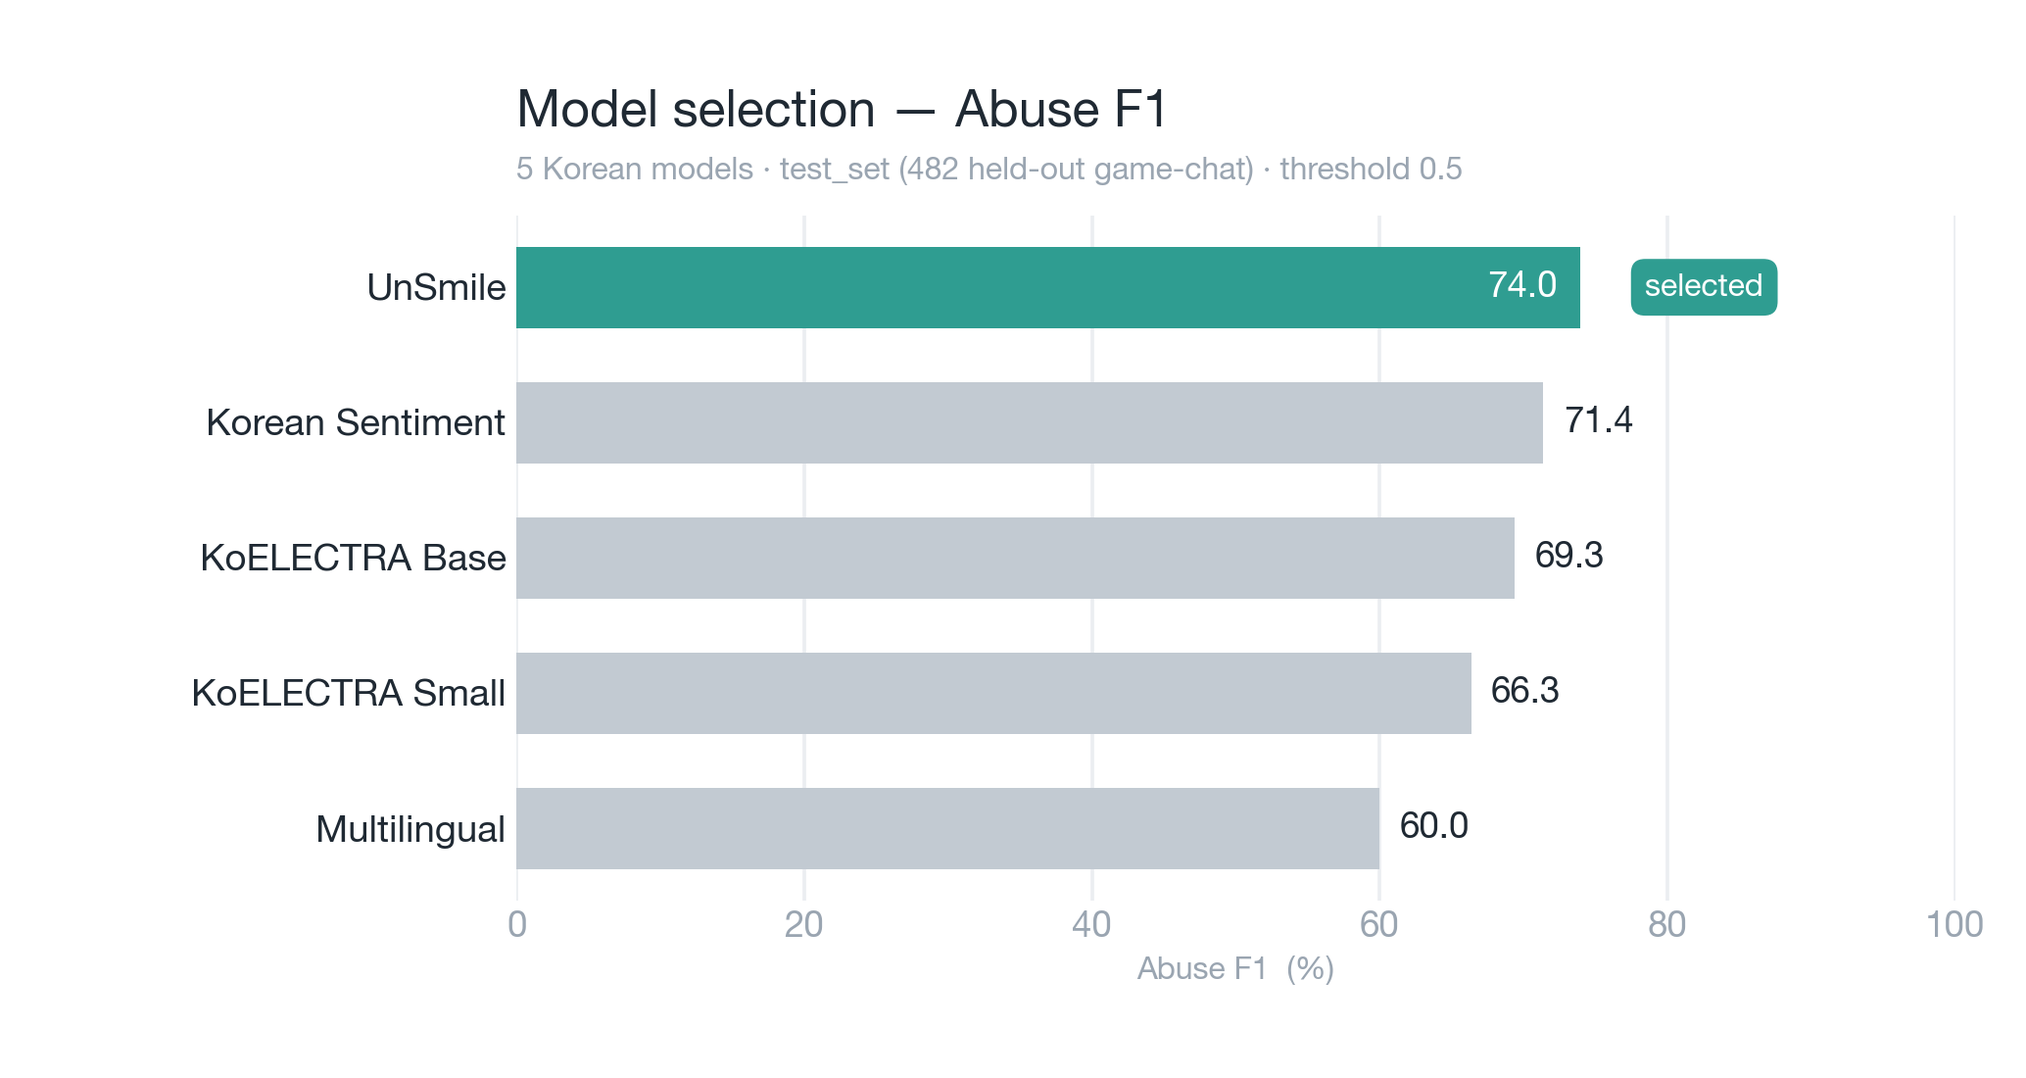
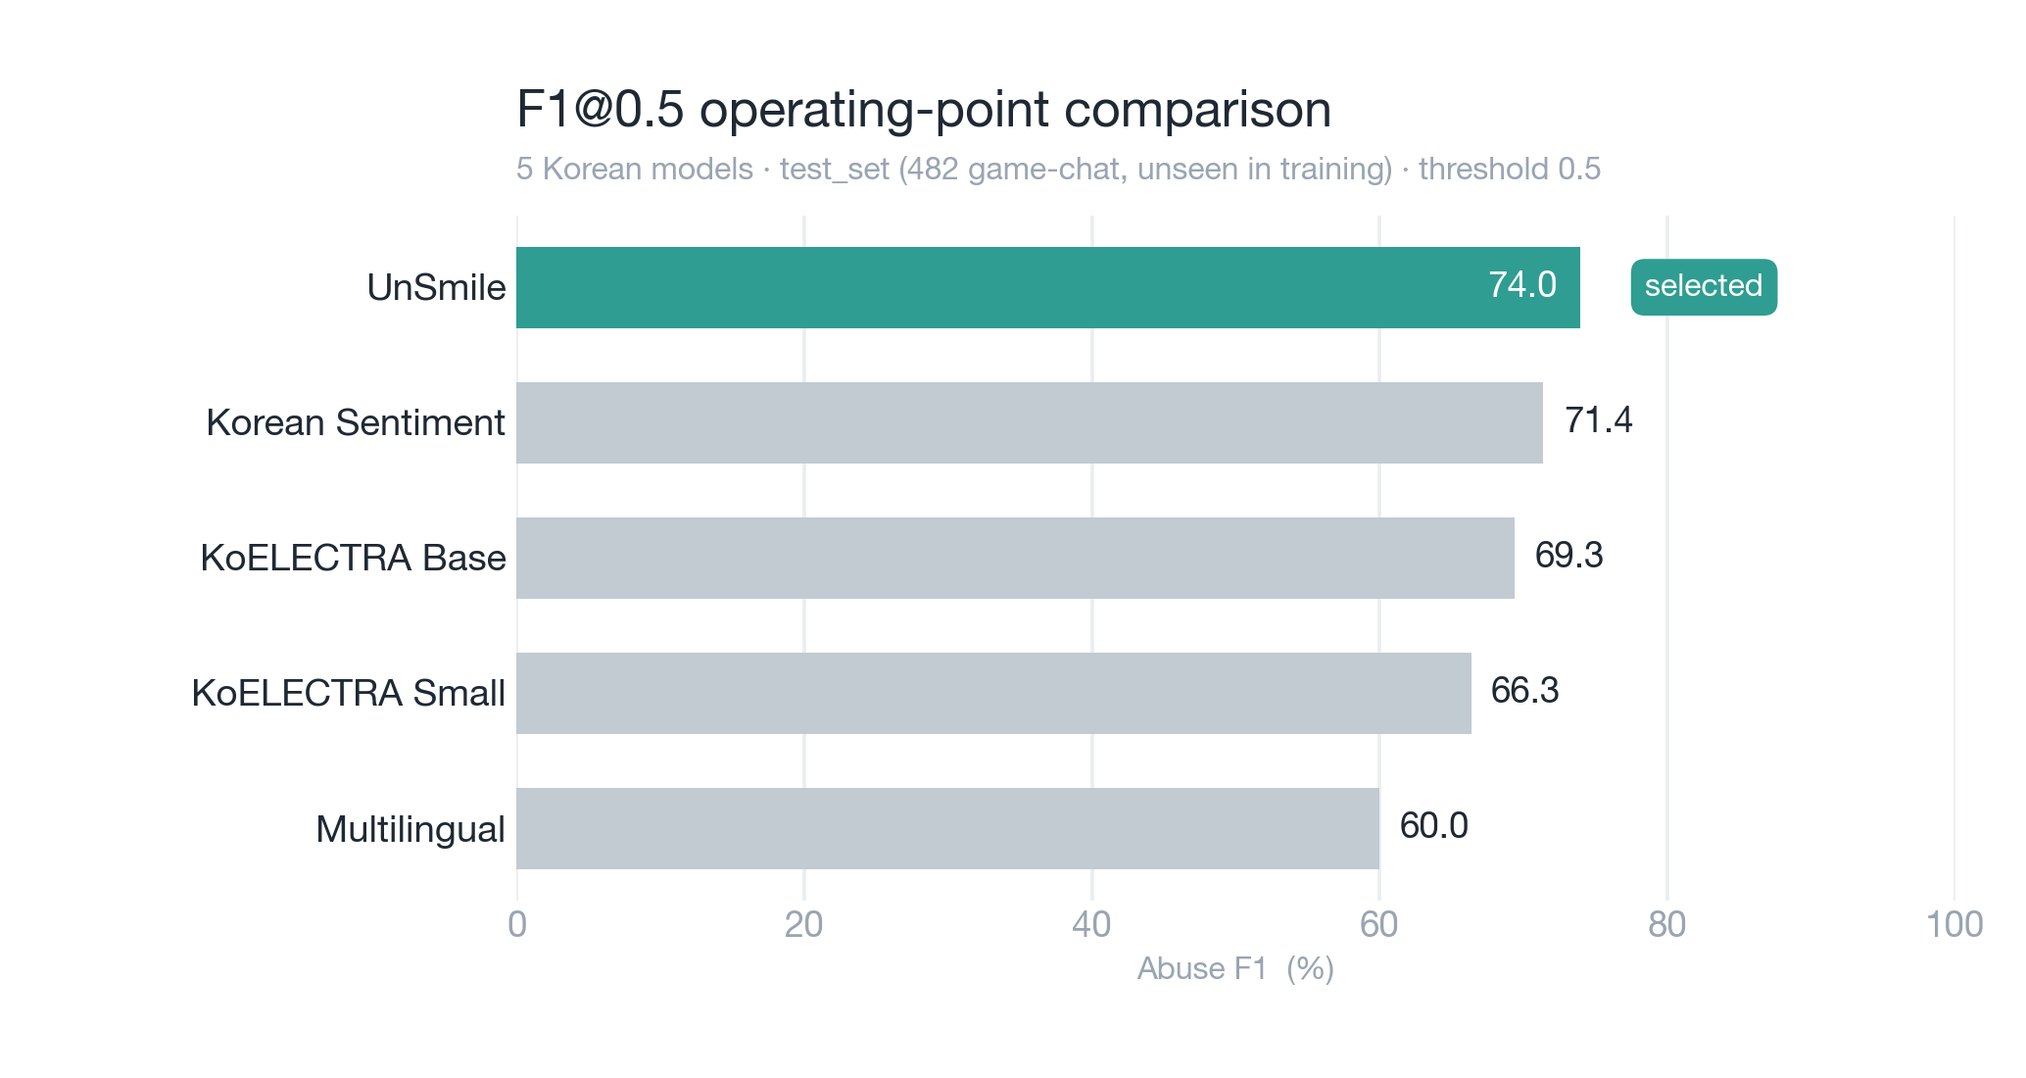
[AI] fix: 0·1단계 수집·모델선정 문서 정합성 보정

Changed region(s): [[0.2476, 0.0618, 0.7737, 0.1855]]

diff --git a/1_Model_Selection/benchmark_game_stt.py b/1_Model_Selection/benchmark_game_stt.py
@@ -1,7 +1,7 @@
 """
 게임 STT 데이터 기반 5개 모델 벤치마크 (Step 1 · 모델 선정)
 - test_set.tsv (482건, 학습에 안 쓴 평가셋) 사용
-- 5개 한국어 감정/혐오 분석 모델 비교 → Abuse F1 기준 선정 (모두 분류 헤드가 실제 로드되는 모델)
+- 5개 한국어 감정/혐오 분석 모델 비교 → AP 기준 선정, F1@0.5는 참고 운영점 (모두 분류 헤드가 실제 로드되는 모델)
 - 산출물: results/ (benchmark_autogen.md 원시요약, benchmark_results.csv/.json, 그래프 en/ko 4종)
   ※ 큐레이션 문서(그래프 설명 등)는 results/MODEL_BENCHMARK.md (손으로 유지, 자동 덮어쓰기 안 함)
 
@@ -45,6 +45,16 @@ MODELS_TO_TEST = [
     ("Korean Sentiment", "matthewburke/korean_sentiment"),
     ("UnSmile", "smilegate-ai/kor_unsmile"),
 ]
+
+
+def load_threshold_free_scores():
+    """AP 기준 선정 결과가 있으면 읽고, 없으면 F1@0.5 fallback을 허용한다."""
+    path = os.path.join(RESULTS_DIR, "threshold_free_selection.csv")
+    if not os.path.exists(path):
+        return {}
+    df = pd.read_csv(path, encoding="utf-8-sig")
+    return {str(row["model"]): float(row["AP"]) for _, row in df.iterrows()}
+
 
 # 모델별 부정 라벨 매핑
 MODEL_NEGATIVE_LABELS = {
@@ -290,7 +300,20 @@ def save_results(results, sentences_count):
     print(f"💾 저장: {RESULTS_DIR}/benchmark_results.json")
     
     # Markdown README
-    best = max(successful, key=lambda x: x["abuse_f1"])
+    ap_scores = load_threshold_free_scores()
+    has_ap = bool(ap_scores)
+    criterion_label = "AP(임계값 무관)" if has_ap else "F1@0.5"
+    best = max(successful, key=lambda x: (ap_scores.get(x["model_name"], -1.0), x["abuse_f1"]) if has_ap else x["abuse_f1"])
+    ap_metric_line = (
+        f"- **AP**: {ap_scores[best['model_name']]:.2f}% (임계값 무관 선정 지표)"
+        if best["model_name"] in ap_scores
+        else "- **AP**: threshold_free_selection.csv 미생성, F1@0.5 기준으로 임시 선정"
+    )
+    sorted_results = sorted(
+        successful,
+        key=lambda x: (ap_scores.get(x["model_name"], -1.0), x["abuse_f1"]) if has_ap else x["abuse_f1"],
+        reverse=True,
+    )
     
     md_content = f"""# 🎮 5개 모델 벤치마크 결과 (자동 생성)
 
@@ -306,25 +329,27 @@ def save_results(results, sentences_count):
 
 ## 🏆 결과 요약
 
-| 모델 | Abuse Recall | Abuse F1 | 선정 |
-|------|:------------:|:--------:|:----:|
+| 모델 | AP | Abuse Recall | Abuse F1@0.5 | 선정 |
+|------|:--:|:------------:|:------------:|:----:|
 """
     
-    for r in sorted(successful, key=lambda x: -x["abuse_f1"]):
+    for r in sorted_results:
         selected = "✅" if r["model_name"] == best["model_name"] else ""
-        md_content += f"| {r['model_name']} | **{r['abuse_recall']*100:.2f}%** | {r['abuse_f1']*100:.2f}% | {selected} |\n"
+        ap_text = f"{ap_scores[r['model_name']]:.2f}%" if r["model_name"] in ap_scores else "-"
+        md_content += f"| {r['model_name']} | {ap_text} | **{r['abuse_recall']*100:.2f}%** | {r['abuse_f1']*100:.2f}% | {selected} |\n"
     
     md_content += f"""
 ---
 
 ## 🎯 {best['model_name']} 선정 이유
 
-### 1. 최고 성능 (선정 기준: Abuse F1)
-- **Abuse F1**: {best['abuse_f1']*100:.2f}% (모델 중 1위)
+### 1. 최고 성능 (선정 기준: {criterion_label}, F1@0.5는 참고)
+{ap_metric_line}
+- **Abuse F1@0.5**: {best['abuse_f1']*100:.2f}%
 - **Abuse Precision**: {best['abuse_precision']*100:.2f}% · **Recall**: {best['abuse_recall']*100:.2f}%
 - **Accuracy**: {best['accuracy']*100:.2f}% · **Clean F1**: {best['clean_f1']*100:.2f}%
 
-> ⚠ 선정은 Recall이 아니라 **임계값 무관 AP 기준**(상세: threshold_free_selection.py). 단순 Recall 최대 모델은 거의 모든 문장을 부정어로 분류해(Precision↓, 오탐↑) 실사용 불가. 아래 F1@0.5는 참고 운영점.
+> ⚠ 선정은 Recall이 아니라 **{criterion_label} 기준**(상세: threshold_free_selection.py). 단순 Recall 최대 모델은 거의 모든 문장을 부정어로 분류해(Precision↓, 오탐↑) 실사용 불가. 아래 F1@0.5는 참고 운영점.
 
 ### 2. 한국어 혐오 발언 전용
 - Smilegate AI의 **한국어 혐오 발언 탐지** 전용 모델, 댓글/채팅 학습 → 게임 대화에 적합
@@ -402,8 +427,13 @@ if __name__ == "__main__":
     # 베스트 모델
     successful = [r for r in all_results if not r.get("error")]
     if successful:
-        best = max(successful, key=lambda x: x["abuse_f1"])
-        print(f"\n🏆 Best: {best['model_name']} (Abuse F1: {best['abuse_f1']*100:.2f}%)")
+        ap_scores = load_threshold_free_scores()
+        if ap_scores:
+            best = max(successful, key=lambda x: (ap_scores.get(x["model_name"], -1.0), x["abuse_f1"]))
+            print(f"\n🏆 Best: {best['model_name']} (AP: {ap_scores.get(best['model_name'], 0):.2f}%, F1@0.5: {best['abuse_f1']*100:.2f}%)")
+        else:
+            best = max(successful, key=lambda x: x["abuse_f1"])
+            print(f"\n🏆 Best: {best['model_name']} (Abuse F1@0.5: {best['abuse_f1']*100:.2f}%)")
     
     # 저장(CSV/JSON/MD) 후, 포트폴리오 차트는 plot_benchmark에서 CSV 기반 렌더(영어+한국어)
     save_results(all_results, len(sentences))

diff --git a/1_Model_Selection/plot_benchmark.py b/1_Model_Selection/plot_benchmark.py
@@ -4,7 +4,7 @@ plot_benchmark.py — 모델선정 벤치마크 '포트폴리오용' 차트 (pre
 results/benchmark_results.csv 를 읽어 차트를 렌더한다. 모델 추론(benchmark_game_stt.py)과
 분리돼 있어 **재추론 없이** 다시 그릴 수 있다. 영어(기본)·한국어 두 버전을 모두 생성한다.
 
-  best_model_selection.png / _ko.png — Abuse F1 랭킹(= 선정 결과)
+  best_model_selection.png / _ko.png — Abuse F1@0.5 운영점 비교
   6_model_comparison.png    / _ko.png — 유효 후보 3종의 Precision–Recall 트레이드오프(덤벨)
 
 디자인: 에디토리얼 좌측정렬 타이틀 · 뮤트 그레이 + 단일 틸 액센트 · 무테/무격자(옅은 격자만).
@@ -68,7 +68,7 @@ NOISE = set()
 # ── 문구(언어별) ───────────────────────────────────────────────────────────
 STRINGS = {
     "en": {
-        "sel_title": "Model selection — Abuse F1",
+        "sel_title": "F1@0.5 operating-point comparison",
         "sel_sub":   "5 Korean models · test_set (482 game-chat, unseen in training) · threshold 0.5",
         "sel_xlabel": "Abuse F1  (%)",
         "selected":  "selected",
@@ -81,7 +81,7 @@ STRINGS = {
         "recall":    "Recall",
     },
     "ko": {
-        "sel_title": "모델 선정 (Abuse F1 기준)",
+        "sel_title": "F1@0.5 운영점 비교",
         "sel_sub":   "한국어 모델 5종, 학습에 쓰지 않은 test_set 482(게임채팅), 임계값 0.5",
         "sel_xlabel": "Abuse F1  (%)",
         "selected":  "선정",

diff --git a/1_Model_Selection/plot_threshold_free_ko.py b/1_Model_Selection/plot_threshold_free_ko.py
@@ -44,7 +44,7 @@ for yi, (n, v) in enumerate(zip(names, vals)):
              fontsize=11.5, fontweight="bold" if n == "UnSmile" else "normal", zorder=4)
 axA.text(vals[-1] + 1.0, ypos[-1], "선정", va="center", ha="left", color=PRIMARY, fontsize=10.5, fontweight="bold")
 axA.set_yticks(ypos); axA.set_yticklabels([KO[n] for n in names], fontsize=11)
-axA.set_xlim(45, 100); axA.set_xlabel("AP · 평균정밀도 (%)", fontsize=10.5)
+axA.set_xlim(0, 100); axA.set_xlabel("AP · 평균정밀도 (%)", fontsize=10.5)
 for s in axA.spines.values(): s.set_visible(False)
 axA.tick_params(length=0); axA.xaxis.grid(True, color=GRID, lw=1.1, zorder=0); axA.set_axisbelow(True)
 axA.set_title("임계값과 무관한 선정 지표", loc="left", pad=30, fontsize=14.5, fontweight="bold", color=INK)

diff --git a/1_Model_Selection/README.md b/1_Model_Selection/README.md
@@ -13,11 +13,10 @@
 | `plot_benchmark.py` | 결과 CSV로 **포트폴리오용 차트**(영어/한국어) 렌더, 추론과 분리(재추론 불필요) |
 | `benchmark_game_stt.ipynb` | 노트북 버전(참고) |
 | `results/` | 산출물: `MODEL_BENCHMARK.md`(상세+그래프 설명)·`benchmark_results.csv`·그래프(en/ko) |
-| `MODEL_SELECTION.md` | 선정 근거 메모(기준·트러블슈팅 교훈) |
 
 ## 🏆 선정 결과, UnSmile
 
-`test_set.tsv`(482, 학습에 안 쓴 평가셋) 5종 비교. **선정 기준은 임계값과 무관한 AP(평균정밀도)**, UnSmile 91.9%로 2위(+12.7%p) 압도. F1@0.5는 참고 운영점. (상세 → [`results/MODEL_BENCHMARK.md`](./results/MODEL_BENCHMARK.md))
+`test_set.tsv`(482, 학습에 안 쓴 평가셋) 5종 비교. **선정 기준은 임계값과 무관한 AP(평균정밀도)**, UnSmile 91.9%로 2위보다 +12.7%p 앞섰습니다. F1@0.5는 참고 운영점입니다. (상세 → [`results/MODEL_BENCHMARK.md`](./results/MODEL_BENCHMARK.md))
 
 ![베이스 선정: 임계값과 무관한 AP + 임계값 sweep](results/selection_threshold_free_ko.png)
 
@@ -36,6 +35,13 @@
 
 > 🎯 **이 선정은 "완성"이 아니라 "파인튜닝의 출발점".** UnSmile도 게임 채팅에선 **Recall 60%(부정어의 40%를 놓침)** 가 한계, 임계값을 낮춰 더 잡으려 하면 멀쩡한 게임 오더(`가만히 있어라 좀`)까지 과탐하는 *threshold 딜레마*에 빠진다. 이 한계를 **게임 데이터 fine-tuning(3~7단계)** 으로 푼다(Recall↑ · Precision 유지). → [`../AI_파이프라인_개요.md`](../AI_파이프라인_개요.md)
 
+## 🧩 선정 과정에서 확인한 함정
+
+1. 모델별 "부정" 라벨이 제각각입니다. UnSmile은 혐오 8종+악플/욕설, Korean Sentiment는 `LABEL_0`, KoELECTRA는 `negative`, Multilingual은 `1~2 stars`를 abuse로 맞춰야 합니다.
+2. KoELECTRA 감정모델 2종은 저장된 분류 헤드가 구 형식이라 표준 로더가 헤드를 랜덤 초기화할 수 있습니다. 그래서 `benchmark_game_stt.py`에서 인코더+단일 Linear를 수동 로드해 실수치를 산출했습니다.
+3. `beomi/KcELECTRA-base-v2022`는 분류 헤드가 없는 base LM이라 off-the-shelf 분류 후보에서 제외했습니다. 이 모델은 4·5단계에서 게임 데이터로 새 헤드를 학습시키는 대상으로 사용합니다.
+4. 모델 비교는 0.5 운영점 수치만 보지 않고 AP로 선정합니다. 0.5 F1은 보고용 비교점이고, 운영 임계값은 별도 캘리브레이션 대상입니다.
+
 ## 🚀 실행
 
 ```bash
@@ -47,7 +53,6 @@ python plot_benchmark.py       # (선택) 차트만 다시 그리기, 재추론 
 ## 📖 관련 문서
 
 - 선정 상세 + **그래프 읽는 법**: [`results/MODEL_BENCHMARK.md`](./results/MODEL_BENCHMARK.md)
-- 선정 근거·트러블슈팅 교훈: [`MODEL_SELECTION.md`](./MODEL_SELECTION.md)
 - STT 엔진 결정: [`00_STT_Engine_Selection/STT_COMPARISON.md`](./00_STT_Engine_Selection/STT_COMPARISON.md)
 - 프로젝트 개요·데이터: [`../AI_파이프라인_개요.md`](../AI_파이프라인_개요.md) · [`../0_Data_Collection/`](../0_Data_Collection/)
 - 선정한 UnSmile 파인튜닝: [`../4_LoRA_Fine_Tuning/`](../4_LoRA_Fine_Tuning/) · [`../5_Full_Fine_Tuning/`](../5_Full_Fine_Tuning/)

diff --git a/1_Model_Selection/results/MODEL_BENCHMARK.md b/1_Model_Selection/results/MODEL_BENCHMARK.md
@@ -7,7 +7,7 @@
 - **모델 수**: 5개 (모두 분류 헤드가 실제로 로드되는 모델만) · **선정 기준**: AP(평균정밀도, 임계값 무관) · **비교 운영점**: F1@0.5
 - **abuse 판정 = not-clean(clean이 아니면 부정어, 9개 라벨 max > 0.5)**, 실제 배포·Step 2 baseline·Step 6과 **동일 정의** (UnSmile).
 - ℹ `beomi/KcELECTRA-base-v2022`는 **분류 헤드가 없는 base LM**(ElectraForPreTraining)이라 선정 후보에서 **제외**(4·5단계에서 게임 데이터로 헤드 학습).
-- ℹ KoELECTRA 2종은 저장 헤드가 구 형식(단일 Linear)이라 표준 로더가 못 읽음 → **인코더+단일 Linear 수동 로드**해 실수치 산출(근거: [`../MODEL_SELECTION.md`](../MODEL_SELECTION.md)).
+- ℹ KoELECTRA 2종은 저장 헤드가 구 형식(단일 Linear)이라 표준 로더가 못 읽음 → **인코더+단일 Linear 수동 로드**해 실수치 산출(근거: [`../README.md`](../README.md)의 트러블슈팅 메모).
 
 ---
 
@@ -85,7 +85,7 @@
 > 영어판 + 한국어판(`_ko`) 제공. 생성: `python plot_benchmark.py` (CSV 기반, 재추론 불필요).
 > 두 그래프는 **한 쌍**으로 읽는다, ①은 *"누가 1등인가"*, ②는 *"왜 Precision까지 보는가"*.
 
-### ① 선정, Abuse F1 랭킹
+### ① Abuse F1@0.5 운영점 비교
 ![Best Model Selection](./best_model_selection.png)
 한국어판: [`best_model_selection_ko.png`](./best_model_selection_ko.png)
 
@@ -98,9 +98,9 @@
 
 **읽어내는 것**: UnSmile이 1위. 단, F1만 보면 격차가 작아 보인다(74.0 vs 71~60). **격차의 본질(왜 UnSmile이 실사용 가능한가)은 ②에서** Precision으로 드러난다.
 
-> **결론**: AP 1위(F1@0.5도 1위) = **UnSmile 선정**.
+> **결론**: AP 1위(F1@0.5도 1위) = **UnSmile 선정**. 단 선정의 주 지표는 F1 한 점이 아니라 AP입니다.
 
-### ② 왜 F1으로 뽑았나, Precision vs Recall (덤벨)
+### ② 왜 Precision까지 보는가, Precision vs Recall (덤벨)
 ![Model Comparison](./6_model_comparison.png)
 한국어판: [`6_model_comparison_ko.png`](./6_model_comparison_ko.png)
 

diff --git a/0_Data_Collection/README.md b/0_Data_Collection/README.md
@@ -55,7 +55,7 @@ unSmile **10라벨 포맷은 유지**하되(공식·train_collected 호환), 우
 **판정 규칙**: unSmile의 **9개 부정 라벨**(여성/가족·남성·성소수자·인종/국적·연령·지역·종교·기타 혐오·악플/욕설) **중 하나라도** 임계값(0.3)을 넘으면 **abuse**, 하나도 안 뜨고 `clean`만이면 **평문(clean)**.
 - 즉 `clean`이 아닌 어떤 부정 라벨(예: 지역·종교 혐오)이 떠도 **모두 abuse로 잡는다**, "악플/욕설"만 보는 게 아님.
 - 다만 **저장**은 9개를 굳이 구분하지 않고 `악플/욕설=1`(abuse) / `clean=1`(평문) 한 쌍으로 이진화한다. 게임 채팅 부정 발언은 대부분 `악플/욕설`이고, 기획서 목표도 "악플/욕설 Recall 개선"이라 세부 '대상' 카테고리는 따로 보존하지 않는다.
-- 이 0.3은 `06_prelabel`의 **사전라벨 후보 넓게 잡기용**입니다. 모델 선정·비교·배포 평가는 모두 **not-clean**(clean 제외 9개 라벨 max) 기준이며, 비교 임계값은 **0.5**로 통일합니다(실제 배포는 ~0.28로 별도 보정).
+- 이 0.3은 `06_prelabel`의 **사전라벨 후보 넓게 잡기용**입니다. 모델 선정·비교·압축 평가는 모두 **not-clean**(clean 제외 9개 라벨 max) 기준이며, 비교 임계값은 **0.5**로 통일합니다. 운영 임계값은 별도 보정 대상이지만, 현재 권장 압축 산출물인 FP16은 0.5 기준 성능을 그대로 보존합니다.
 
 (코드 상세: `06_prelabel_unsmile.py` docstring)
 

diff --git a/0_Data_Collection/수집_파이프라인_설계노트.md b/0_Data_Collection/수집_파이프라인_설계노트.md
@@ -2,7 +2,7 @@
 
 이 문서는 UnSmile 모델의 Fine-tuning을 위해 **유튜브 영상에서 음성 데이터를 추출하고, 이를 학습 가능한 텍스트 데이터로 변환하는 전체 과정**을 설명합니다.
 
-> ⚠ **옛 파일명 주의**: 본문의 `youtube_downloader.py` · `audio_transcriber.py` · `auto_labeler.py` 등은 **예전 이름**입니다. 현재 실제 스크립트는 이 폴더의 [`01_youtube_downloader.py`](01_youtube_downloader.py) · [`02_whisper_transcriber.py`](02_whisper_transcriber.py) … `01~05`입니다. 이 문서는 *왜 이런 구조가 됐는지*(아래 "변경 이력") 기록용으로 남겼습니다.
+> ⚠ **옛 파일명 주의**: 본문의 `youtube_downloader.py` · `audio_transcriber.py` · `auto_labeler.py` 등은 **예전 이름**입니다. 현재 실제 스크립트는 [`01_download/01_youtube_downloader.py`](01_download/01_youtube_downloader.py) · [`02_stt/02_whisper_transcriber.py`](02_stt/02_whisper_transcriber.py) · [`03_clean/03_text_clean.py`](03_clean/03_text_clean.py) · [`04_anonymize/04_text_anonymize.py`](04_anonymize/04_text_anonymize.py) · [`05_advanced_clean/05_text_clean_advanced.py`](05_advanced_clean/05_text_clean_advanced.py)입니다. 이 문서는 *왜 이런 구조가 됐는지*(아래 "변경 이력") 기록용으로 남겼습니다.
 
 ---
 

diff --git a/1_Model_Selection/results/benchmark_autogen.md b/1_Model_Selection/results/benchmark_autogen.md
@@ -12,20 +12,21 @@
 
 ## 🏆 결과 요약
 
-| 모델 | Abuse Recall | Abuse F1 | 선정 |
-|------|:------------:|:--------:|:----:|
-| UnSmile | **60.08%** | 73.95% | ✅ |
-| Korean Sentiment | **93.95%** | 71.36% |  |
-| KoELECTRA Base | **90.32%** | 69.35% |  |
-| KoELECTRA Small | **84.27%** | 66.35% |  |
-| Multilingual | **70.16%** | 60.00% |  |
+| 모델 | AP | Abuse Recall | Abuse F1@0.5 | 선정 |
+|------|:--:|:------------:|:------------:|:----:|
+| UnSmile | 91.94% | **60.08%** | 73.95% | ✅ |
+| Korean Sentiment | 79.25% | **93.95%** | 71.36% |  |
+| KoELECTRA Base | 66.56% | **90.32%** | 69.35% |  |
+| KoELECTRA Small | 64.54% | **84.27%** | 66.35% |  |
+| Multilingual | 52.15% | **70.16%** | 60.00% |  |
 
 ---
 
 ## 🎯 UnSmile 선정 이유
 
-### 1. 최고 성능 (선정 기준: Abuse F1)
-- **Abuse F1**: 73.95% (모델 중 1위)
+### 1. 최고 성능 (선정 기준: 임계값 무관 AP, F1@0.5는 참고)
+- **AP**: 91.94% (임계값 무관 선정 지표, 모델 중 1위)
+- **Abuse F1@0.5**: 73.95% (참고 운영점)
 - **Abuse Precision**: 96.13%, **Recall**: 60.08%
 - **Accuracy**: 78.22%, **Clean F1**: 80.99%
 

diff --git a/1_Model_Selection/00_STT_Engine_Selection/STT_COMPARISON.md b/1_Model_Selection/00_STT_Engine_Selection/STT_COMPARISON.md
@@ -17,7 +17,7 @@
 | ✅ **측정함** | 응답지연 **~669ms**(발화→첫 인식), 한국어 인식 confidence 84~87% | [`web_speech_api/test_web_speech.html`](web_speech_api/test_web_speech.html) (재현 가능) |
 | ✅ **정성 확인** | 한국어 구어체 + **욕설을 검열 없이 원문 인식** | [`web_speech_api/webspeech_sample_*.txt`](web_speech_api/) |
 | 🧩 **논증(설계)** | 무인프라·실시간·배포 단순 → 런타임 적합 | 아래 §1–§3 |
-| ⚠ **못 잼(리스크)** | STT **정확도/WER**, 정답(ground-truth) 전사가 없어 수치화 불가 |, |
+| ⚠ **못 잼(리스크)** | STT **정확도/WER**, 정답(ground-truth) 전사가 없어 수치화 불가 | 해당 없음 |
 | 🧩 **가정(조건 분석)** | train/serve skew는 **무BGM·단일화자** 런타임에선 작음(방향도 양성) | §4 |
 
 > 즉 "Web Speech가 정확하다"를 숫자로 증명한 게 아니라, **런타임 요구(실시간·무인프라·욕설 인식)에 충분하고 실용적**이라는 *엔지니어링 결정*이다. 정확도 리스크는 §4처럼 **인지하고 관리**한다.

diff --git a/1_Model_Selection/00_STT_Engine_Selection/web_speech_api/README.md b/1_Model_Selection/00_STT_Engine_Selection/web_speech_api/README.md
@@ -25,7 +25,7 @@
 | :--- | :--- | :--- |
 | **짧게**(200ms) | 욕설을 빨리 포착(응답성↑) | 문장이 **조각남** → 분류기가 문맥 없이 토막을 봄 |
 | **길게**(500ms) | 문장이 **완결**돼 분류 문맥↑ | 포착이 느림(응답성↓) |
-| **무throttle**(default) |, | 중간결과가 **중복** 기록(같은 말 반복) |
+| **무throttle**(default) | 설정이 가장 단순함 | 중간결과가 **중복** 기록(같은 말 반복) |
 
 → "5초 배치 안에서 어느 주기로 끊어 담아야 응답성과 완결성이 균형인가"를 보기 위한 실험. 출력 형태가 실제로 다음처럼 갈립니다(게임 오디오 1편):
 
